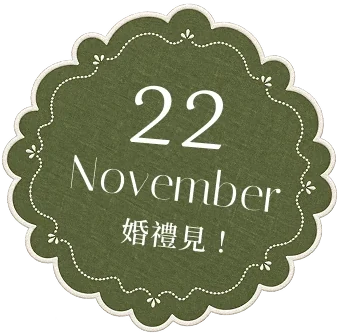
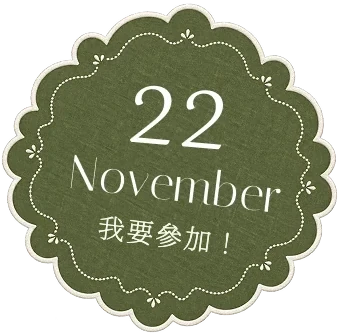
feat(invite): add the menu, rsvp wording and paw hints on the desk

Changed region(s): [[0.2959, 0.6269, 0.6213, 0.7761], [0.6509, 0.6866, 0.6805, 0.7761]]

diff --git a/app/components/invite/InviteObject.vue b/app/components/invite/InviteObject.vue
@@ -13,6 +13,10 @@ const props = defineProps<{
   isMusicPlaying: boolean
   /** 目前在桌上的貓（SceneCat.key）；腳印用它標 aria-expanded */
   activeCat: string | null
+  /** 這個腳印現在被舞台點名：晃一下、旁邊冒出提示那句字（只有腳印會是 true） */
+  nudge?: boolean
+  /** 腳印的提示文字 */
+  hint?: string
 }>()
 
 const emit = defineEmits<{
@@ -148,6 +152,7 @@ const linkClass = computed(() => [
   props.item.note ? 'si-note-trigger' : null,
   props.item.hover === 'wobble' ? 'si-wobble' : null,
   props.item.cat ? 'si-cat' : null,
+  props.item.cat && props.nudge ? 'is-nudging' : null,
   props.item.caption ? 'si-cap-host' : null,
 ])
 </script>
@@ -193,6 +198,8 @@ const linkClass = computed(() => [
         <span v-if="item.caption?.mobileLines" class="si-caption si-caption-static" :style="captionStyle" aria-hidden="true">
           <span v-for="line in item.caption.mobileLines" :key="line">{{ line }}</span>
         </span>
+        <!-- 腳印的提示：被點名時浮出來的一句小字。按鈕的可及名稱已經是圖的 alt（認識貓咪 …），這句純視覺 -->
+        <span v-if="item.cat && hint" class="si-hint" :class="{ 'is-on': nudge }" aria-hidden="true">{{ hint }}</span>
       </component>
     </div>
     <Transition name="story-note">
@@ -380,6 +387,81 @@ const linkClass = computed(() => [
   width: max(100%, 44px);
   height: max(100%, 44px);
   transform: translate(-50%, -50%);
+}
+
+/* 腳印被點名：晃兩下、放大一點點。用獨立的 rotate／scale 屬性（同下面的 si-wobble），
+   跟 .si-art 自己的 transform 鏈相乘、不互蓋；提示小字是按鈕的子元素，會跟著一起晃。
+   腳印很小（手機 21～58px），幅度給到 ±12°／1.12 倍才看得出來 */
+.si-cat.is-nudging {
+  animation: si-paw-nudge 900ms var(--ease-standard) 2;
+}
+
+@keyframes si-paw-nudge {
+  0%,
+  100% {
+    rotate: 0deg;
+    scale: 1;
+  }
+
+  20% {
+    rotate: -12deg;
+    scale: 1.12;
+  }
+
+  45% {
+    rotate: 9deg;
+    scale: 1.12;
+  }
+
+  70% {
+    rotate: -5deg;
+    scale: 1.05;
+  }
+}
+
+/* 提示小字：沿用手寫小字那套對話框（紙色底、細框、手寫字），貼在腳印上方；平常透明、被點名才浮出來。
+   不用 cqw：腳印的按鈕不能掛 container-type（會被算成 0 寬，見上面 .si-cap-host 的註解），字級給固定值 */
+.si-hint {
+  position: absolute;
+  bottom: calc(100% + 10px);
+  left: 50%;
+  z-index: 1;
+  padding: 0.35em 0.85em 0.4em;
+  translate: -50% 0;
+  border: 1px solid var(--color-line);
+  border-radius: 1.1em;
+  background: var(--color-paper);
+  box-shadow: var(--shadow);
+  font-family: var(--font-hand);
+  font-size: 15px;
+  line-height: 1.3;
+  color: var(--color-ink);
+  white-space: nowrap;
+  opacity: 0;
+  transform: translateY(4px);
+  transition:
+    opacity 250ms var(--ease-standard),
+    transform 250ms var(--ease-standard);
+  pointer-events: none;
+}
+
+.si-hint::after {
+  content: '';
+  position: absolute;
+  bottom: -0.46em;
+  left: calc(50% - 0.43em);
+  width: 0.86em;
+  height: 0.86em;
+  transform: rotate(45deg);
+  border-right: 1px solid var(--color-line);
+  border-bottom: 1px solid var(--color-line);
+  border-bottom-right-radius: 0.16em;
+  background: var(--color-paper);
+}
+
+.si-hint.is-on {
+  opacity: 1;
+  transform: none;
 }
 
 /* hover 的左右晃：轉軸放在頂端（拍立得是用迴紋針夾著的），撥一下晃兩下就停。

diff --git a/app/components/invite/InviteStage.vue b/app/components/invite/InviteStage.vue
@@ -11,6 +11,13 @@ const props = defineProps<{
   catTrail: string[]
   items: SceneItem[]
   music: SceneMusic
+  /** 腳印旁邊不定時冒出來的那句提示 */
+  catHint: string
+}>()
+
+const emit = defineEmits<{
+  /** 信封離場、桌面開始演：頁面用它決定右上角的選單開關什麼時候出現 */
+  scene: []
 }>()
 
 /** 視差最大位移（px，depth=1 時）——低振幅，只做空氣感不做眩目 */
@@ -33,6 +40,21 @@ const activeCatKey = ref<string | null>(null)
 const activeCat = computed(
   () => props.cats.find(c => c.key === activeCatKey.value) ?? null,
 )
+
+/* ── 腳印的提示（新人 09-17：怕沒有人知道腳印可以按）──
+   進到桌面後，三個腳印不定時輪流晃一下、旁邊冒一句「點我看看」（晃與字都在 InviteObject，這裡只負責點名）。
+   有人點過任何一個腳印就不再提示——已經知道了，再晃就是打擾；貓在桌上、分頁在背景時跳過這一輪。
+   間隔取 6～10 秒的亂數：固定節拍看起來像故障的燈號，不定時才像桌上的東西自己動了一下。
+   reduced-motion 下晃動被全域 guard 收掉，只剩那句字淡入淡出，提示的意思還在 */
+const NUDGE_FIRST_MS = 5000
+const NUDGE_MIN_MS = 6000
+const NUDGE_MAX_MS = 10000
+const NUDGE_SHOW_MS = 2600
+const nudgeCat = ref<string | null>(null)
+let catDiscovered = false
+let nudgeTurn = 0
+let nudgeTimer: ReturnType<typeof setTimeout> | undefined
+let nudgeHideTimer: ReturnType<typeof setTimeout> | undefined
 
 let introTimer: ReturnType<typeof setTimeout> | undefined
 let motionQuery: MediaQueryList | null = null
@@ -81,11 +103,38 @@ function enterScene() {
   // reduce 模式下離場動畫被全域 guard 壓成 0.01ms，還等 1 秒會變成盯著一張空白紙
   introTimer = setTimeout(() => {
     phase.value = 'scene'
+    emit('scene')
+    scheduleNudge(NUDGE_FIRST_MS)
   }, motionQuery?.matches ? 0 : INTRO_EXIT_MS)
+}
+
+function stopNudge() {
+  clearTimeout(nudgeTimer)
+  clearTimeout(nudgeHideTimer)
+  nudgeCat.value = null
+}
+
+function scheduleNudge(delay: number) {
+  clearTimeout(nudgeTimer)
+  nudgeTimer = setTimeout(() => {
+    if (catDiscovered)
+      return
+    // 貓正在桌上、或分頁在背景：這一輪不點名，下一輪再說
+    if (!activeCatKey.value && !document.hidden && props.cats.length) {
+      nudgeCat.value = props.cats[nudgeTurn % props.cats.length]!.key
+      nudgeTurn++
+      nudgeHideTimer = setTimeout(() => {
+        nudgeCat.value = null
+      }, NUDGE_SHOW_MS)
+    }
+    scheduleNudge(NUDGE_MIN_MS + Math.random() * (NUDGE_MAX_MS - NUDGE_MIN_MS))
+  }, delay)
 }
 
 // 再點一次同一個腳印＝請牠回去休息（腳印本身就是開關，不用另外找出口）
 function openCat(key: string) {
+  catDiscovered = true
+  stopNudge()
   activeCatKey.value = activeCatKey.value === key ? null : key
 }
 
@@ -167,6 +216,7 @@ onBeforeUnmount(() => {
   window.removeEventListener('keydown', onWindowKeydown)
   window.removeEventListener('click', handleFirstInteraction, { capture: true })
   clearTimeout(introTimer)
+  stopNudge()
   if (frame)
     cancelAnimationFrame(frame)
 })
@@ -193,6 +243,8 @@ onBeforeUnmount(() => {
         :float-enabled="floatEnabled"
         :is-music-playing="isMusicPlaying"
         :active-cat="activeCatKey"
+        :nudge="!!item.cat && nudgeCat === item.cat"
+        :hint="catHint"
         @toggle-music="toggleMusic"
         @open-cat="openCat"
       />

diff --git a/app/pages/invite/[weddingId].vue b/app/pages/invite/[weddingId].vue
@@ -1,7 +1,8 @@
 <!-- app/pages/invite/[weddingId].vue — 婚紗入口頁（喜帖桌面）
      對外分享的第一站：一張會動的喜帖桌面，三個出口——
      蕾絲愛心卡 → /story/[weddingId]（婚禮故事頁）、拍立得 → /gallery/[weddingId]（婚紗照）、
-     「婚禮見」日期卡 → /rsvp/public/[weddingId]（出席回覆，新人 09-17）。
+     「我要參加！」日期卡 → /rsvp/public/[weddingId]（出席回覆，新人 09-17）。
+     進到桌面之後右上角才出現選單開關（PublicMenu，與故事頁、相簿同一顆）：開場那張封蠟信封只有「打開」一個動作，不放選單。
      內容為單一婚禮的靜態資料（見 useInviteScene），非後台可編輯的實體。 -->
 <script setup lang="ts">
 definePageMeta({ layout: 'story' })
@@ -14,6 +15,8 @@ usePublicWeddingGuard(weddingId.value)
 // 出口（愛心卡、拍立得）帶著網址上的婚禮簽章，從喜帖點到故事再回出席回覆才不會掉
 const { withSig } = useSignedLink()
 const scene = computed(() => useInviteScene(weddingId.value, withSig))
+/** 信封離場、桌面開始演了沒：選單開關等這一刻才出現 */
+const inScene = ref(false)
 
 useSeoMeta({
   title: 'Alex & Lele 婚禮邀請',
@@ -25,25 +28,34 @@ useSeoMeta({
 </script>
 
 <template>
-  <InviteStage
-    :background="scene.background"
-    :intro="scene.intro"
-    :cats="scene.cats"
-    :cat-trail="scene.catTrail"
-    :items="scene.items"
-    :music="scene.music"
-  >
-    <!-- 主標下方的引言：桌機稿才有，手機稿留給信封主體 -->
-    <div class="invite-tagline">
-      <p v-for="line in scene.tagline" :key="line" class="tagline-line tracking-wide text-ink-700">
-        {{ line }}
-      </p>
-      <p class="mt-1 flex items-center gap-3 font-display text-body-l tracking-widest text-gold-deep">
-        <span class="h-px w-28 bg-line" aria-hidden="true" />
-        {{ scene.taglineEn }}
-      </p>
+  <!-- 單一根元素：舞台＋進到桌面後才出現的選單 -->
+  <div>
+    <InviteStage
+      :background="scene.background"
+      :intro="scene.intro"
+      :cats="scene.cats"
+      :cat-trail="scene.catTrail"
+      :items="scene.items"
+      :music="scene.music"
+      :cat-hint="scene.catHint"
+      @scene="inScene = true"
+    >
+      <!-- 主標下方的引言：桌機稿才有，手機稿留給信封主體 -->
+      <div class="invite-tagline">
+        <p v-for="line in scene.tagline" :key="line" class="tagline-line tracking-wide text-ink-700">
+          {{ line }}
+        </p>
+        <p class="mt-1 flex items-center gap-3 font-display text-body-l tracking-widest text-gold-deep">
+          <span class="h-px w-28 bg-line" aria-hidden="true" />
+          {{ scene.taglineEn }}
+        </p>
+      </div>
+    </InviteStage>
+    <!-- 桌面是紙色底，開關用墨色（不 blend）；v-if 到這一刻才掛，配一段淡入 -->
+    <div v-if="inScene" class="invite-menu">
+      <PublicMenu :wedding-id="weddingId" :blend="false" />
     </div>
-  </InviteStage>
+  </div>
 </template>
 
 <style scoped>
@@ -73,6 +85,17 @@ useSeoMeta({
   font-size: 16px;
   font-weight: 300;
   line-height: 2;
+}
+
+/* 選單開關：桌上的東西差不多擺好（第三幕約 2.4 秒落定）才淡進來，不跟進場搶 */
+.invite-menu {
+  animation: menu-in 400ms var(--ease-standard) 1800ms both;
+}
+
+@keyframes menu-in {
+  from {
+    opacity: 0;
+  }
 }
 
 @keyframes tagline-in {

diff --git a/app/composables/useInviteScene.ts b/app/composables/useInviteScene.ts
@@ -130,8 +130,9 @@ export function useInviteScene(weddingId: string, linkFor: (path: string) => str
       eager: true,
     },
     { key: 'wax-seal', src: art('wax-seal.webp'), alt: '', desktop: { x: 53.1, y: 41.6, w: 4.1 }, mobile: { x: 31.1, y: 48.9, w: 10.4 }, depth: 0.75, order: 16, phaseDelay: SCENE_DELAY, z: 25, eager: true },
-    // 「22 November 婚禮見！」的日期卡是第三個出口：點了進公開出席回覆（新人 09-17）
-    { key: 'date-badge', src: art('date-badge.webp'), alt: '11 月 22 日婚禮見！填寫出席回覆', desktop: { x: 68.4, y: 53, w: 16.3 }, mobile: { x: 69.8, y: 58.3, w: 42 }, depth: 0.65, order: 14, phaseDelay: SCENE_DELAY, z: 26, to: rsvpPath, hover: 'wobble' },
+    // 日期卡是第三個出口：點了進公開出席回覆（新人 09-17）。卡上第三行原本是「婚禮見！」，新人怕賓客不知道可以點，
+    // 同一天改成「我要參加！」——字是畫在圖裡的，做法見 docs/invite-portal-assets.md（去字、補紋理、用 Noto Serif TC 重畫）
+    { key: 'date-badge', src: art('date-badge.webp'), alt: '11 月 22 日，我要參加！填寫出席回覆', desktop: { x: 68.4, y: 53, w: 16.3 }, mobile: { x: 69.8, y: 58.3, w: 42 }, depth: 0.65, order: 14, phaseDelay: SCENE_DELAY, z: 26, to: rsvpPath, hover: 'wobble' },
     {
       key: 'polaroid-forest',
       src: art('polaroid-forest.webp'),
@@ -198,6 +199,8 @@ export function useInviteScene(weddingId: string, linkFor: (path: string) => str
     // 三隻貓的紙條文案：Happy 由新人提供、逐字照放；Healthy 與 Money 依同一結構
     // （名字／角色兩行／悄悄話兩行／結尾一句）自既有招呼詞改寫，待新人確認。
     catTrail: [art('paw-02.webp'), art('paw-03.webp'), art('paw-01.webp')],
+    // 桌上的腳印不定時輪流晃一下、旁邊冒這一句（新人 09-17：怕沒有人知道腳印可以按）；點過任何一個就不再提示
+    catHint: '點我看看',
     cats: [
       {
         key: 'healthy',

diff --git a/app/components/PublicMenu.vue b/app/components/PublicMenu.vue
@@ -58,8 +58,14 @@ const rows = computed<MenuRow[]>(() => {
     // 出席回覆頁：只列三個公開頁（故事、相簿、喜帖），相簿的系列頁不列——那是相簿裡面的分頁，從回覆表單直接跳過去太跳
     : route.path === `/rsvp/public/${props.weddingId}`
       ? list.filter(row => ['Our Story', 'Gallery', 'Invitation'].includes(row.word))
+      // 喜帖頁：就是桌上那三個出口（故事、相簿、出席回覆），相簿的系列頁同樣不列
+      : route.path === `/invite/${props.weddingId}`
+        ? [
+            ...list.filter(row => ['Our Story', 'Gallery'].includes(row.word)),
+            { label: '出席回覆', word: 'RSVP', to: `/rsvp/public/${props.weddingId}`, image: content.inviteThumb },
+          ]
       // 不連到自己所在的那一頁
-      : list.filter(row => row.to !== route.path)
+        : list.filter(row => row.to !== route.path)
   return rowsForPage.map(row => ({ ...row, to: withSig(row.to) }))
 })
 

diff --git a/app/types/invite.ts b/app/types/invite.ts
@@ -147,6 +147,8 @@ export interface InviteScene {
   cats: SceneCat[]
   /** 貓咪進場時一步一步浮現的腳印素材（三隻共用） */
   catTrail: string[]
+  /** 桌上三個腳印不定時輪流冒出來的那句提示（怕賓客不知道腳印可以按） */
+  catHint: string
   items: SceneItem[]
   music: SceneMusic
 }
